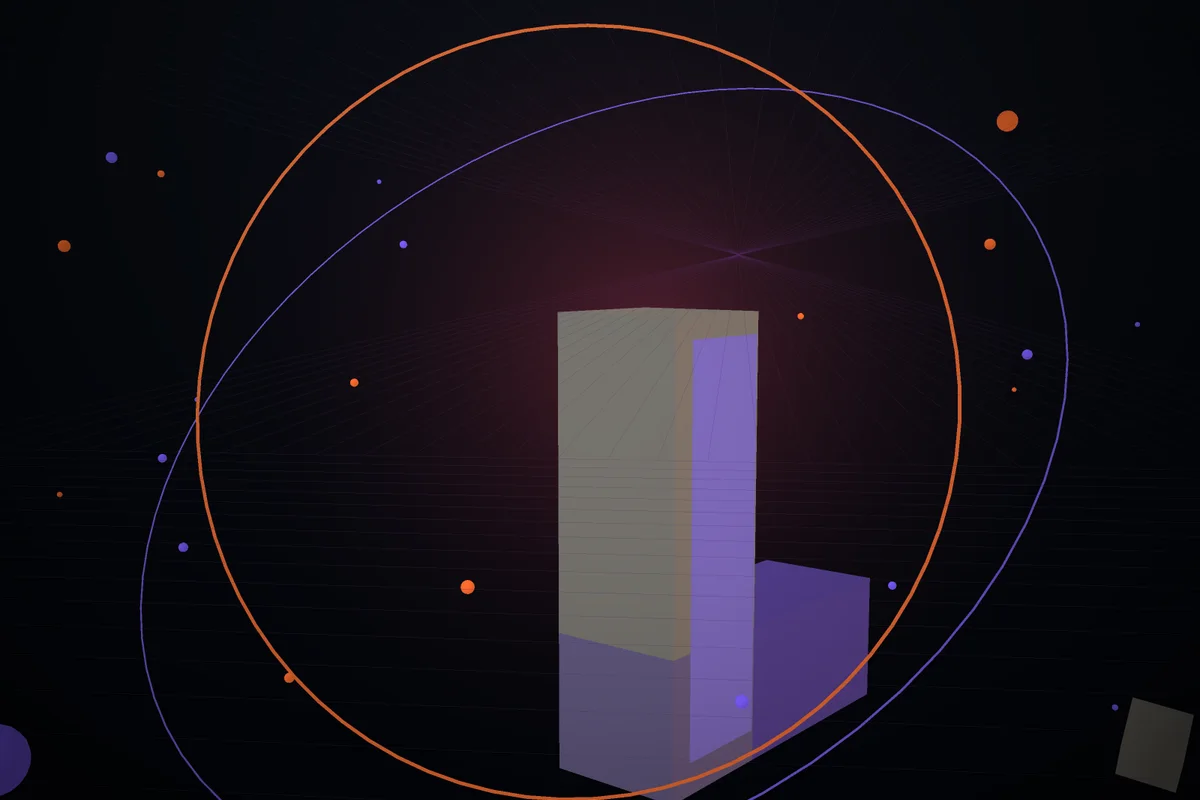
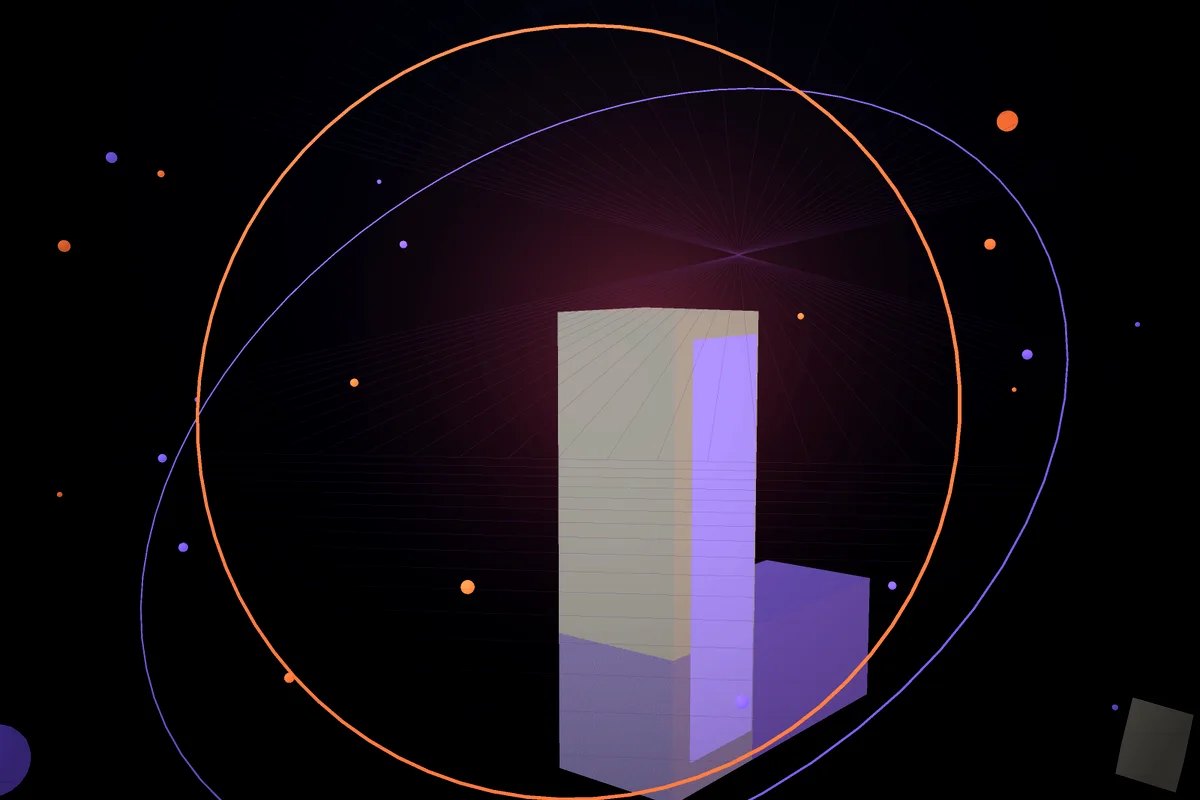
site: front fill light on the hero mark, wider stats strip, brighter card plates

diff --git a/studio/site/app.js b/studio/site/app.js
@@ -106,9 +106,13 @@ function boot() {
 
   /* ---- light ---- */
   scene.add(new THREE.HemisphereLight(0xfff2e4, 0x0a0e14, 0.55));
-  const key = new THREE.DirectionalLight(0xfff6ec, 2.4);
+  const key = new THREE.DirectionalLight(0xfff6ec, 2.0);
   key.position.set(-4, 6, 5);
   scene.add(key);
+  // fill from the camera side so the bone beam's front face never goes muddy
+  const fill = new THREE.DirectionalLight(0xffe9d8, 1.15);
+  fill.position.set(7, 3.2, 9);
+  scene.add(fill);
   const rimTeal = new THREE.PointLight(0x22e8c8, 14, 16, 2);
   rimTeal.position.set(4.2, -1.4, -3.2);
   scene.add(rimTeal);
